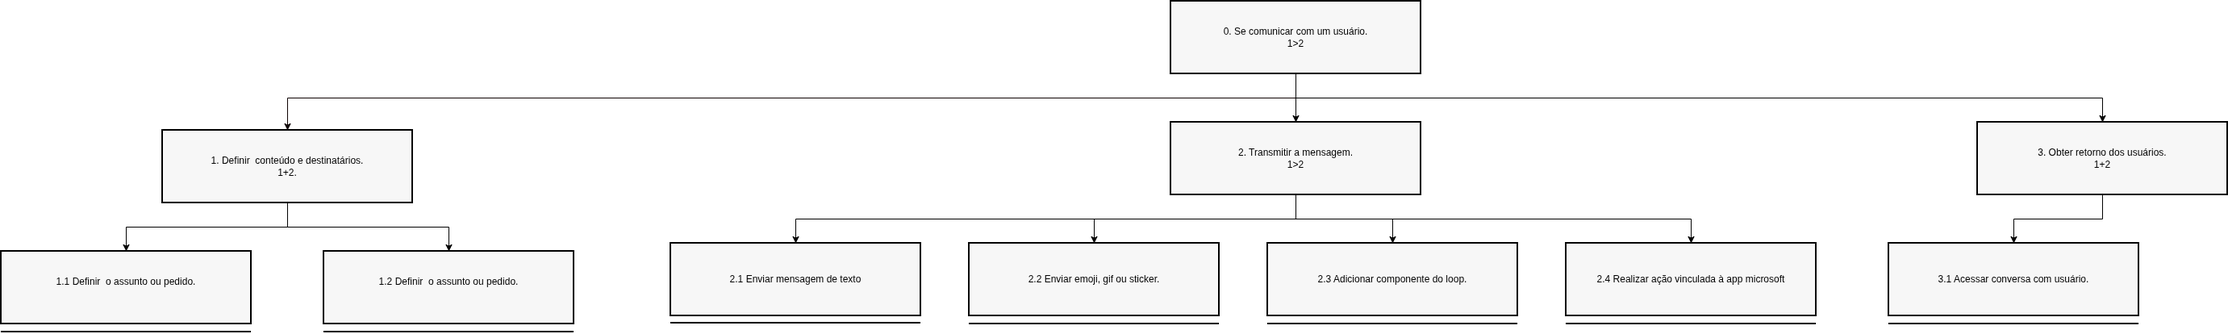
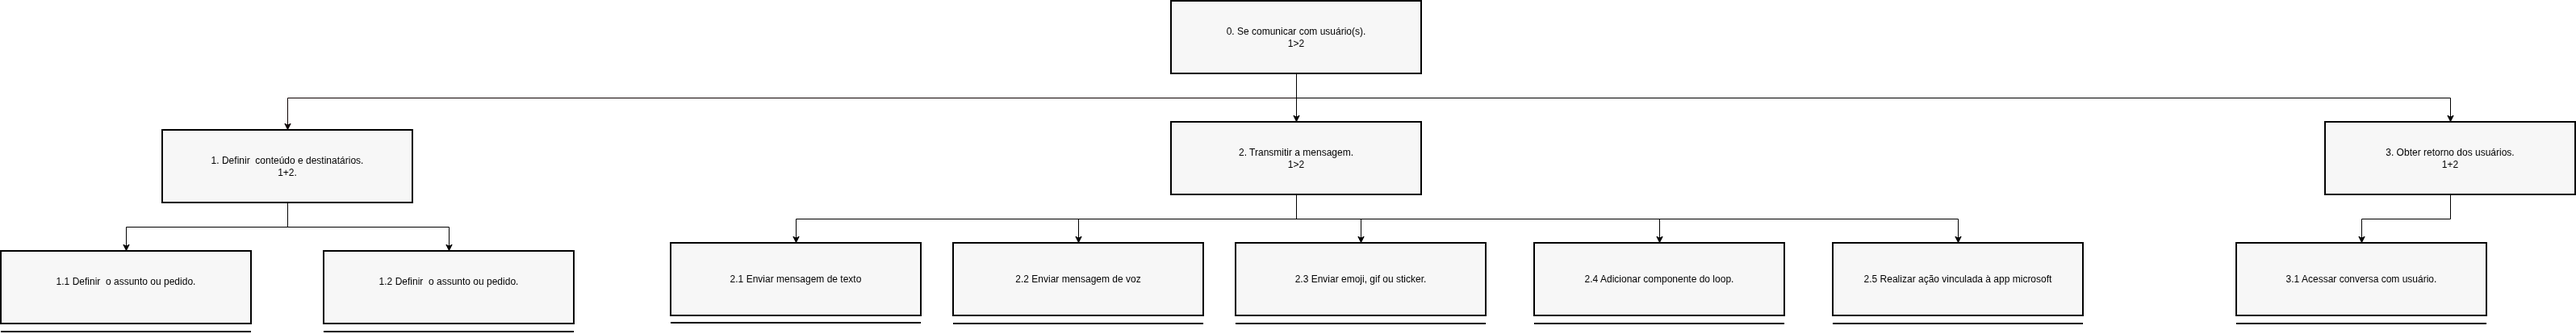
updating users communication task

diff --git a/docs/analise_de_requisitos/analise_de_tarefas/hta.md b/docs/analise_de_requisitos/analise_de_tarefas/hta.md
@@ -33,20 +33,23 @@ A modelagem HTA adota a seguinte estrutura:
 
 Nesta tarefa o usuário precisa se comunicar com outros usuários, para alinhamentos, esclarecimentos de dúvidas, e outras tarefas que possam apoiar o trabalho individual de cada um, os mesmos utilizam a plataforma teams, com a funcionalidade de chat como meio de realização desta tarefa.
 
+A principal divergência nesta tarefa, está na operação de gravar mensagem de voz, a mesma só está disponível em dispositivos móveis, não havendo a opção em ambiente web ou desktop. Nesta avaliação de IHC, traremos a funcionalidade para todos os ambientes para avaliar como os usuários interagem com ela.
 
-| Objetivos / operações                         | Problemas e recomendações                                                                                                                                                                                                                                                                                                                                             |
-| --------------------------------------------- | --------------------------------------------------------------------------------------------------------------------------------------------------------------------------------------------------------------------------------------------------------------------------------------------------------------------------------------------------------------------- |
-| **0. Se comunicar com um usuário** `1>2`      | **input:** necessidade de informar algo ou obter algo de um usuário<br>**feedback:** usuário recebeu a mensagem e retornou ou agiu conforme o esperado<br>**plano:** 1>2<br>**recomendação:** avaliar se o chat do Teams é o canal adequado ao assunto e à urgência                                                                                                   |
-| **1. Definir conteúdo e destinatários** `1+2` | **plano:** 1+2, definir os dois ao mesmo tempo ou em qualquer ordem                                                                                                                                                                                                                                                                                                   |
-| 1.1 Definir o assunto ou pedido               | **input:** demanda ou dúvida a resolver<br>**ação:** decidir o conteúdo essencial e a ação esperada do usuário<br>**feedback:** assunto e pedido formulados com clareza<br>**problema:** mensagem vaga, sem a ação esperada explícita<br>**recomendação:** deixar claro o que se espera e o prazo                                                                     |
-| 1.2 Definir o assunto ou pedido               | **input:** demanda ou dúvida a resolver<br>**ação:** decidir o conteúdo essencial e a ação esperada do usuário<br>**feedback:** assunto e pedido formulados com clareza<br>**problema:** mensagem vaga, sem a ação esperada explícita<br>**recomendação:** deixar claro o que se espera e o prazo                                                                     |
-| **2. Transmitir a mensagem** `1>2`            | **plano:** 1>2<br>**problema:** o usuário pode não perceber ou não entender formatos menos comuns (Loop, ações de apps)<br>**recomendação:** priorizar texto quando o objetivo é ser compreendido rapidamente                                                                                                                                                         |
-| 2.1 Enviar mensagem de texto                  | **input:** conteúdo e destinatário definidos<br>**ação:** escrever, revisar e enviar o texto<br>**feedback:** mensagem aparece como enviada na conversa<br>**problema:** enviar com erro ou para a conversa errada<br>**recomendação:** revisar antes de enviar                                                                                                       |
-| 2.2 Enviar emoji, gif ou sticker              | **input:** necessidade de expressar tom ou reação<br>**ação:** escolher o item e enviar<br>**feedback:** item aparece na conversa<br>**problema:** o usuário interpretar o tom de forma diferente do pretendido<br>**recomendação:** usar como complemento ao texto, não como única mensagem                                                                          |
-| 2.3 Adicionar componente do Loop              | **input:** conteúdo que precisa ser editado ou acompanhado em conjunto (lista, tabela, tarefas)<br>**ação:** inserir o componente na conversa e preencher<br>**feedback:** componente visível e editável pelos participantes<br>**problema:** usuário não saber que pode editar ou não ter acesso<br>**recomendação:** avisar na mensagem que o componente é editável |
-| 2.4 Realizar ação vinculada à app Microsoft   | **input:** necessidade de integrar outra ferramenta (agendar reunião, compartilhar arquivo, etc.)<br>**ação:** acionar a app a partir do chat<br>**feedback:** ação concluída e refletida na conversa<br>**problema:** erro de permissão ou dificuldade de localizar a ação<br>**recomendação:** confirmar com o usuário que ele recebeu o que foi compartilhado      |
-| **3. Obter retorno dos usuários** `1+2`       | **plano:** 1+2                                                                                                                                                                                                                                                                                                                                                        |
-| 3.1 Acessar conversa com usuário              | **input:** mensagem enviada<br>**ação:** abrir a conversa e verificar a resposta<br>**feedback:** resposta identificada ou ausência de resposta constatada<br>**problema:** perder a resposta entre muitas notificações<br>**recomendação:** definir um prazo para checar o retorno                                                                                   |
+
+| Objetivos / operações                         | Problemas e recomendações                                                                                                                                                                                                                                                                                                                                                                    |
+| --------------------------------------------- | -------------------------------------------------------------------------------------------------------------------------------------------------------------------------------------------------------------------------------------------------------------------------------------------------------------------------------------------------------------------------------------------- |
+| **0. Se comunicar com um usuário** `1>2`      | **input:** necessidade de informar algo ou obter algo de um usuário<br>**feedback:** usuário recebeu a mensagem e retornou ou agiu conforme o esperado<br>**plano:** 1>2<br>**recomendação:** avaliar se o chat do Teams é o canal adequado ao assunto e à urgência                                                                                                                          |
+| **1. Definir conteúdo e destinatários** `1+2` | **plano:** 1+2, definir os dois ao mesmo tempo ou em qualquer ordem                                                                                                                                                                                                                                                                                                                          |
+| 1.1 Definir o assunto ou pedido               | **input:** demanda ou dúvida a resolver<br>**ação:** decidir o conteúdo essencial e a ação esperada do usuário<br>**feedback:** assunto e pedido formulados com clareza<br>**problema:** mensagem vaga, sem a ação esperada explícita<br>**recomendação:** deixar claro o que se espera e o prazo                                                                                            |
+| 1.2 Definir o assunto ou pedido               | **input:** demanda ou dúvida a resolver<br>**ação:** decidir o conteúdo essencial e a ação esperada do usuário<br>**feedback:** assunto e pedido formulados com clareza<br>**problema:** mensagem vaga, sem a ação esperada explícita<br>**recomendação:** deixar claro o que se espera e o prazo                                                                                            |
+| **2. Transmitir a mensagem** `1>2`            | **plano:** 1>2<br>**problema:** o usuário pode não perceber ou não entender formatos menos comuns (Loop, ações de apps)<br>**recomendação:** priorizar texto quando o objetivo é ser compreendido rapidamente                                                                                                                                                                                |
+| 2.1 Enviar mensagem de texto                  | **input:** conteúdo e destinatário definidos<br>**ação:** escrever, revisar e enviar o texto<br>**feedback:** mensagem aparece como enviada na conversa<br>**problema:** enviar com erro ou para a conversa errada<br>**recomendação:** revisar antes de enviar                                                                                                                              |
+| 2.2 Enviar mensagem de voz                    | **input:** conteúdo e destinatário definidos<br>**ação:** Ambiente mobile: segurar botão de microfone; Desktop: Clicar em ícone de microfone, e clicar em quadrado vermelho para interromper a gravação<br>**feedback:** O áudio aparece na conversa e na barra de envio de mensagem<br>**problema:** enviar com erro ou para a conversa errada<br>**recomendação:** revisar antes de enviar |
+| 2.2 Enviar emoji, gif ou sticker              | **input:** necessidade de expressar tom ou reação<br>**ação:** escolher o item e enviar<br>**feedback:** item aparece na conversa<br>**problema:** o usuário interpretar o tom de forma diferente do pretendido<br>**recomendação:** usar como complemento ao texto, não como única mensagem                                                                                                 |
+| 2.3 Adicionar componente do Loop              | **input:** conteúdo que precisa ser editado ou acompanhado em conjunto (lista, tabela, tarefas)<br>**ação:** inserir o componente na conversa e preencher<br>**feedback:** componente visível e editável pelos participantes<br>**problema:** usuário não saber que pode editar ou não ter acesso<br>**recomendação:** avisar na mensagem que o componente é editável                        |
+| 2.4 Realizar ação vinculada à app Microsoft   | **input:** necessidade de integrar outra ferramenta (agendar reunião, compartilhar arquivo, etc.)<br>**ação:** acionar a app a partir do chat<br>**feedback:** ação concluída e refletida na conversa<br>**problema:** erro de permissão ou dificuldade de localizar a ação<br>**recomendação:** confirmar com o usuário que ele recebeu o que foi compartilhado                             |
+| **3. Obter retorno dos usuários** `1+2`       | **plano:** 1+2                                                                                                                                                                                                                                                                                                                                                                               |
+| 3.1 Acessar conversa com usuário              | **input:** mensagem enviada<br>**ação:** abrir a conversa e verificar a resposta<br>**feedback:** resposta identificada ou ausência de resposta constatada<br>**problema:** perder a resposta entre muitas notificações<br>**recomendação:** definir um prazo para checar o retorno                                                                                                          |
 
 Para melhor visualização da imagem, com possibilidade de ampliar, [clique aqui](../../assets/hta-entrevista-Lucas.png)
 
@@ -104,3 +107,4 @@ A tarefa do gestor/chefe abrange as responsabilidades de liderança, criação d
 | `1.0`  | 27/09/2026 | Criação da página.                                                              | Lucas Sales      | Luccas Rodrigues |
 | `1.1`  | 27/09/2026 | Adição do diagrama hta de esclarecimento de uma dúvida com colegas de trabalho. | Lucas Sales      | Luccas Rodrigues |
 | `1.2`  | 27/09/2026 | Atualização de estrutura da página                                              | Luccas Rodrigues | Lucas Sales      |
+| `1.3`  | 20/10/2026 | Atualização da tarefa de comunicação entre usuários                             | Lucas Sales      |                  |
